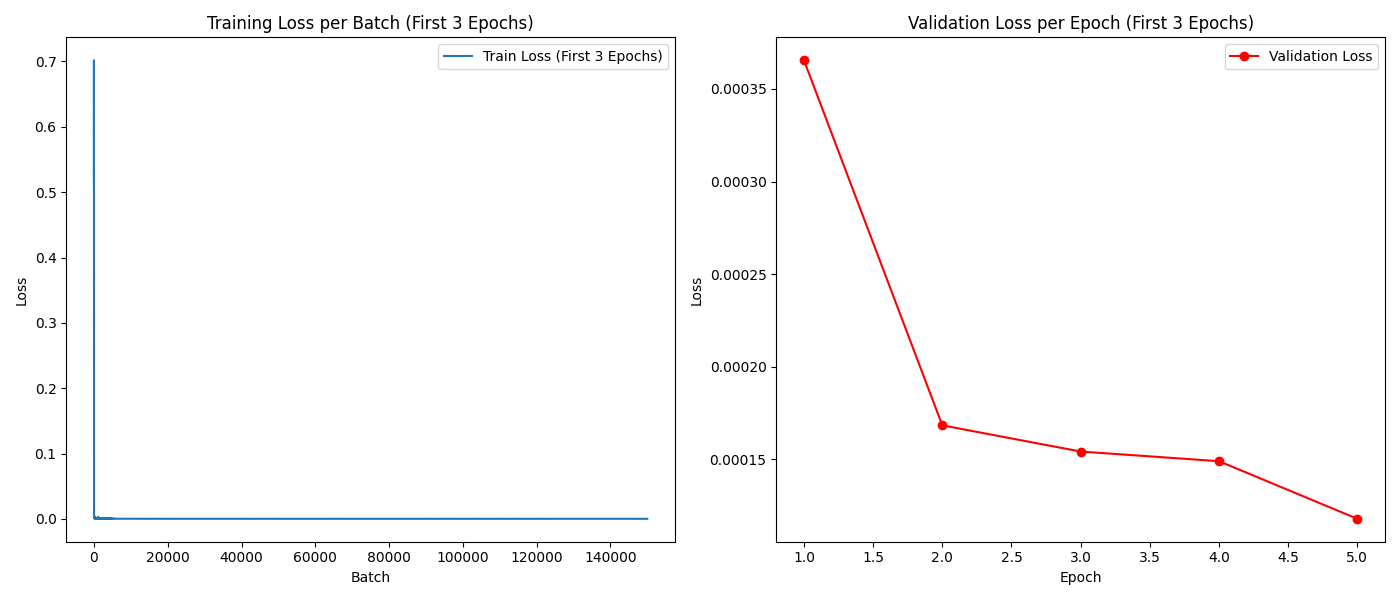
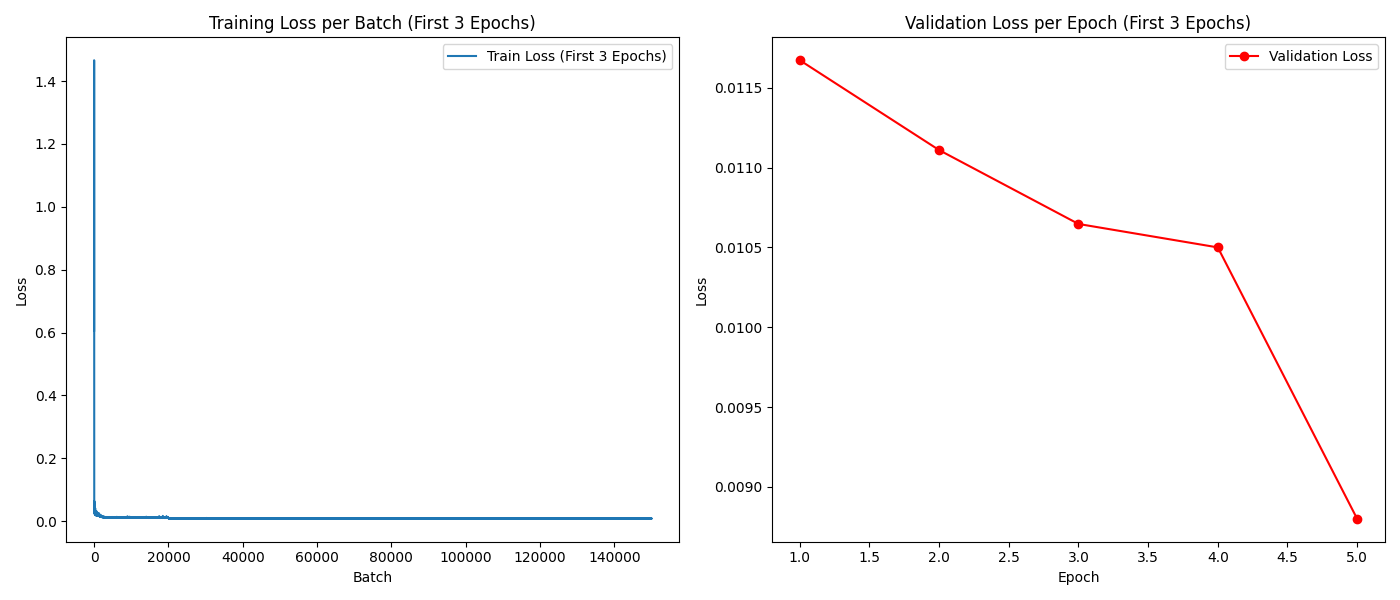
new archicture with the mapper

diff --git a/MoEmbeddings/single.py b/MoEmbeddings/single.py
@@ -3,7 +3,8 @@ import matplotlib.pyplot as plt
 
 from sklearn.preprocessing import StandardScaler
 from sklearn.model_selection import train_test_split
-from sklearn.metrics import mean_squared_error, cosine_similarity
+from sklearn.metrics import mean_squared_error
+from sklearn.metrics.pairwise import cosine_similarity 
 from sklearn.manifold import TSNE
 
 import torch
@@ -12,13 +13,13 @@ import torch.optim as optim
 from torch.utils.data import DataLoader, TensorDataset
 
 
-path_to_data = "" 
+path_to_data = "../data" 
 
-train_e5_small_path            = f"{path_to_data}/to/train_e5_small.npy"
-train_e5_large_autoencode_path = f"{path_to_data}/to/train_e5_large_autoencode.npy"
+train_e5_small_path            = f"{path_to_data}/e5-small_wiki_500k/train_embeddings.npy"
+val_e5_small_path              = f"{path_to_data}/e5-small_wiki_500k/val_embeddings.npy"
 
-val_e5_small_path              = f"{path_to_data}/to/val_e5_small.npy"
-val_e5_large_autoencode_path   = f"{path_to_data}/to/val_e5_large_autoencode.npy"
+train_e5_large_autoencode_path = f"{path_to_data}/e5_wiki_500k/train_embeddings.npy"
+val_e5_large_autoencode_path   = f"{path_to_data}/e5_wiki_500k/val_embeddings.npy"
 
 # Load data
 train_e5_small = np.load(train_e5_small_path)           # Shape: (num_train_samples, 384)
@@ -27,14 +28,14 @@ val_e5_small = np.load(val_e5_small_path)               # Shape: (num_val_sample
 val_e5_large_autoencode = np.load(val_e5_large_autoencode_path)      # Shape: (num_val_samples, 384)
 
 # Convert NumPy arrays to PyTorch tensors
-X_train_tensor = torch.tensor(train_e5_small_normalized, dtype=torch.float32)
-y_train_tensor = torch.tensor(train_e5_large_autoencode_normalized, dtype=torch.float32)
-X_val_tensor   = torch.tensor(val_e5_small_normalized, dtype=torch.float32)
-y_val_tensor   = torch.tensor(val_e5_large_autoencode_normalized, dtype=torch.float32)
+X_train_tensor = torch.tensor(train_e5_small, dtype=torch.float32)
+y_train_tensor = torch.tensor(train_e5_large_autoencode, dtype=torch.float32)
+X_val_tensor   = torch.tensor(val_e5_small, dtype=torch.float32)
+y_val_tensor   = torch.tensor(val_e5_large_autoencode, dtype=torch.float32)
 
 
 # Define batch size
-batch_size = 256
+batch_size = 34
 
 # Create TensorDatasets
 train_dataset = TensorDataset(X_train_tensor, y_train_tensor)
@@ -46,70 +47,116 @@ val_loader   = DataLoader(val_dataset, batch_size=batch_size, shuffle=False)
 
 # model
 class EmbedMappingNN(nn.Module):
-    def __init__(self):
+    def __init__(self, input_dim, output_dim):
         super(EmbedMappingNN, self).__init__()
-        self.model = nn.Sequential(
-            nn.Linear(384, 768),
-            nn.ReLU(),
-            nn.Dropout(0.3),
-            nn.Linear(768, 512),
-            nn.ReLU(),
-            nn.Dropout(0.3),
-            nn.Linear(512, 768),
-            nn.ReLU(),
-            nn.Dropout(0.3),
-            nn.Linear(768, 384)
+        self.layer1 = nn.Sequential(
+            nn.Linear(input_dim, 512),
+            nn.BatchNorm1d(512),
+            nn.GELU(),
+            nn.Dropout(0.3)
         )
-
+        self.layer2 = nn.Sequential(
+            nn.Linear(512, 512),
+            nn.BatchNorm1d(512),
+            nn.GELU(),
+            nn.Dropout(0.3)
+        )
+        self.output_layer = nn.Linear(512, output_dim)
+        self.initialize_weights()
+    
     def forward(self, x):
-        return self.model(x)
+        out = self.layer1(x)
+        out = self.layer2(out) + out  # Residual connection
+        out = self.output_layer(out)
+        return out
 
-model = EmbedMappingNN()
+    def initialize_weights(self):
+        for m in self.modules():
+            if isinstance(m, nn.Linear):
+                nn.init.xavier_uniform_(m.weight)
+                if m.bias is not None:
+                    nn.init.zeros_(m.bias)
+            elif isinstance(m, nn.BatchNorm1d):
+                nn.init.ones_(m.weight)
+                nn.init.zeros_(m.bias)
 
 
 
-criterion = nn.MSELoss()
-optimizer = optim.Adam(model.parameters(), lr=1e-3)
-scheduler = optim.lr_scheduler.ReduceLROnPlateau(optimizer, mode='min', patience=5, factor=0.5, verbose=True)
+class RegularizedCombinedLoss(nn.Module):
+    def __init__(self, mse_weight=0.9, cosine_weight=0.1, l2_weight=1e-5):
+        super(RegularizedCombinedLoss, self).__init__()
+        self.mse = nn.MSELoss()
+        self.cosine = nn.CosineEmbeddingLoss()
+        self.mse_weight = mse_weight
+        self.cosine_weight = cosine_weight
+        self.l2_weight = l2_weight
 
-num_epochs = 10
-best_val_loss = float('inf')
+    def forward(self, output, target, model):
+        loss_mse = self.mse(output, target)
+        labels = torch.ones(output.size(0)).to(output.device)
+        loss_cosine = self.cosine(output, target, labels)
+        
+        l2_reg = torch.tensor(0.).to(output.device)
+        for param in model.parameters():
+            l2_reg += torch.norm(param)
+        
+        loss = (
+            self.mse_weight * loss_mse +
+            self.cosine_weight * loss_cosine +
+            self.l2_weight * l2_reg
+        )
+        return loss
 
-for epoch in range(num_epochs):
-    model.train()
-    running_loss = 0.0
-    for batch_X, batch_y in train_loader:
-        optimizer.zero_grad()
-        outputs = model(batch_X)
-        loss = criterion(outputs, batch_y)
-        loss.backward()
-        optimizer.step()
-        running_loss += loss.item() * batch_X.size(0)
-    
-    epoch_train_loss = running_loss / len(train_loader.dataset)
-    
-    # Validation Phase
-    model.eval()
-    val_running_loss = 0.0
-    with torch.no_grad():
-        for batch_X, batch_y in val_loader:
+if __name__ == "__main__":
+    model = EmbedMappingNN(384, 1024)
+
+    criterion = RegularizedCombinedLoss()
+    optimizer = optim.Adam(model.parameters(), lr=1e-2)
+    scheduler = optim.lr_scheduler.StepLR(optimizer, step_size=4, gamma=0.1)
+    #scheduler = optim.lr_scheduler.ReduceLROnPlateau(optimizer, mode='min', patience=5, factor=0.5) 
+
+    num_epochs = 15
+    best_val_loss = float('inf')
+
+    for epoch in range(num_epochs):
+        model.train()
+        running_loss = 0.0
+        for batch_X, batch_y in train_loader:
+            #print(batch_X.shape, batch_y.shape)
+            optimizer.zero_grad()
             outputs = model(batch_X)
-            loss = criterion(outputs, batch_y)
-            val_running_loss += loss.item() * batch_X.size(0)
-    epoch_val_loss = val_running_loss / len(val_loader.dataset)
-    
-    print(f'Epoch {epoch+1}/{num_epochs}, Training Loss: {epoch_train_loss:.6f}, Validation Loss: {epoch_val_loss:.6f}')
-    
-    # Step the scheduler
-    scheduler.step(epoch_val_loss)
-    
-    # Save the best model
-    if epoch_val_loss < best_val_loss:
-        best_val_loss = epoch_val_loss
-        torch.save(model.state_dict(), 'best_embed_mapping_model.pth')
-        print("Best model saved.")
+            #loss = criterion(outputs, batch_y)
+            loss = criterion(outputs, batch_y, model)
+            loss.backward()
+            optimizer.step()
+            running_loss += loss.item() * batch_X.size(0)
+        
+        epoch_train_loss = running_loss / len(train_loader.dataset)
+        
+        # Validation Phase
+        model.eval()
+        val_running_loss = 0.0
+        with torch.no_grad():
+            for batch_X, batch_y in val_loader:
+                outputs = model(batch_X)
+                loss = criterion(outputs, batch_y, model)
+                val_running_loss += loss.item() * batch_X.size(0)
+        epoch_val_loss = val_running_loss / len(val_loader.dataset)
+        
+        print(f'Epoch {epoch+1}/{num_epochs}, Training Loss: {epoch_train_loss:.6f}, Validation Loss: {epoch_val_loss:.6f}')
+        
+        # Step the scheduler
+        scheduler.step(epoch_val_loss)
+        
+        # Save the best model
+        if epoch_val_loss < best_val_loss:
+            best_val_loss = epoch_val_loss
+            torch.save(model.state_dict(), 'best_embed_mapping_model.pth')
+            print("Best model saved.")
 
 ## eval
+
+"""
 model.load_state_dict(torch.load('best_embed_mapping_model.pth'))
 model.eval()
 
@@ -144,7 +191,7 @@ plt.title('Mapped e5-small Embeddings')
 plt.show()
 
 ## things to try, combine mseloss with cosime-sim
-"""
+
 class CombinedLoss(nn.Module):
     def __init__(self, mse_weight=1.0, cosine_weight=1.0):
         super(CombinedLoss, self).__init__()

diff --git a/MoEmbeddings/eval.py b/MoEmbeddings/eval.py
@@ -1,12 +1,13 @@
-## wrapper: embeddings model + mapper >> to >> mteb
-
+from sentence_transformers import SentenceTransformer
+import mteb 
 
 import numpy as np
 import matplotlib.pyplot as plt
 
 from sklearn.preprocessing import StandardScaler
 from sklearn.model_selection import train_test_split
-from sklearn.metrics import mean_squared_error, cosine_similarity
+from sklearn.metrics import mean_squared_error
+#from sklearn.metrics.pairwise import cosine_similarity
 from sklearn.manifold import TSNE
 
 import torch
@@ -14,29 +15,17 @@ import torch.nn as nn
 import torch.optim as optim
 from torch.utils.data import DataLoader, TensorDataset
 
-
 from typing import List, Union
+from single import EmbedMappingNN
 
+INPUT_DIM      = 384
+COMPRESSED_DIM = 1024 
+OUTPUT_DIM     = 1024 
+#model_path = "best_embed_mapping_model.pth" 
+#model_path = f'models_pth/{INPUT_DIM}_{COMPRESSED_DIM}/{CHECKPOINT_PATH}'
 
-class MappingModel(nn.Module):
-    def __init__(self):
-        super(MappingModel, self).__init__()
-        self.model = nn.Sequential(
-            nn.Linear(384, 768),
-            nn.ReLU(),
-            nn.Dropout(0.3),
-            nn.Linear(768, 512),
-            nn.ReLU(),
-            nn.Dropout(0.3),
-            nn.Linear(512, 768),
-            nn.ReLU(),
-            nn.Dropout(0.3),
-            nn.Linear(768, 384)
-        )
+print("wtf?")
 
-    def forward(self, x):
-        return self.model(x)
-   
 class EmbedEncode:
     def __init__(
         self, 
@@ -54,7 +43,7 @@ class EmbedEncode:
         
         if mapping_model_path:
             self.use_mapping = True
-            self.mapping_model = MappingModel(input_dim=input_dim, output_dim=output_dim)
+            self.mapping_model = EmbedMappingNN(input_dim=INPUT_DIM, output_dim=OUTPUT_DIM)
             self.mapping_model.load_state_dict(torch.load(mapping_model_path, map_location=self.device))
             self.mapping_model.to(self.device)
             self.mapping_model.eval()  # Set to evaluation mode
@@ -153,11 +142,14 @@ models = {
             "bge-small"       : "BAAI/bge-small-en-v1.5" # (33M)
 }
 
+
+print("wtf?")
  
 model = SentenceTransformer(models["e5-small"]).to("cuda")
 
-model_path = f'models_pth/{INPUT_DIM}_{COMPRESSED_DIM}/{CHECKPOINT_PATH}'
+print("wtf?")
 
+model_path = "best_embed_mapping_model.pth" 
 # Initialize the EmbedEncode instance with the MappingModel
 combined_model = EmbedEncode(
     model=model,
@@ -168,8 +160,12 @@ combined_model = EmbedEncode(
 )
 
 # Evaluation flag
+r = np.random.randint(100)
+r = 7
+print(f"lucky numbe is {7}")
 eval_ = True 
 if eval_:
     tasks = mteb.get_tasks(tasks=["NFCorpus"]) 
     evaluation = mteb.MTEB(tasks=tasks, eval_splits=["test"], metric="ndcg@10")
-    results = evaluation.run(combined_model, output_folder = f"results/e5_{COMPRESSED_DIM}_{CHECKPOINT_PATH}") 
+    #results = evaluation.run(combined_model, output_folder = f"results/e5_{COMPRESSED_DIM}_{CHECKPOINT_PATH}") 
+    results = evaluation.run(combined_model, output_folder = f"results/blabla_{r}") 

diff --git a/auto-encoder/train.py b/auto-encoder/train.py
@@ -70,7 +70,24 @@ def train():
     model.apply(initialize_weights)
 
     # loss and optimizer
-    criterion = nn.MSELoss()
+    
+    class CombinedLoss(nn.Module):
+        def __init__(self, mse_weight=1.0, cosine_weight=1.0):
+            super(CombinedLoss, self).__init__()
+            self.mse = nn.MSELoss()
+            self.cosine = nn.CosineSimilarity(dim=1)
+            self.mse_weight = mse_weight
+            self.cosine_weight = cosine_weight
+
+        def forward(self, output, target):
+            loss_mse = self.mse(output, target)
+            loss_cosine = 1 - self.cosine(output, target).mean()
+            return self.mse_weight * loss_mse + self.cosine_weight * loss_cosine
+
+    # Use CombinedLoss instead of MSELoss
+    criterion = CombinedLoss(mse_weight=0.99, cosine_weight=0.1)   
+    
+    #criterion = nn.MSELoss()
     optimizer = optim.AdamW(model.parameters(), lr=LEARNING_RATE, weight_decay=WEIGHT_DECAY)
     scheduler = optim.lr_scheduler.StepLR(optimizer, step_size=STEP_SIZE, gamma=GAMMA)
 

diff --git a/MoEmbeddings/README.md b/MoEmbeddings/README.md
@@ -1,7 +1,26 @@
-## Idea:
+## Set up:
+
+We have two small embeddigns (33M) with 384 dim output:
+* m1: `intfloat/e5-small-v2`  (33M)
+    * ndcg@10 - NFCorpus: 0.31806
+* m2: `BAAI/bge-small-en-v1.5`  (33M)
+    * ndcg@10 - NFCorpus: 0.33708
+
+* Naive concat:
+    *
+
+         |  Solo     |            |   up-train (1024) |  Down-train (384) | 
+e5-small | 0.31806   |            |                   |                   |  
+bge-small| 0.33708   |            |                   |                   |
+
+* Down-train concatenation:
+
+
+
+## Delete this
+
 
 Have 6 small embeddigs, and with every request merge two embeddigns (using a Router, itself an embeddign)
-
 Target models: Small models of 30M parameters. 
 
 
@@ -18,7 +37,6 @@ models = {
 ```
 2. I think I might need a more serious dataset, with clear separation (english / french / code? )
     * See if the stronger in Fr model will be picked.
-
 
 
 
